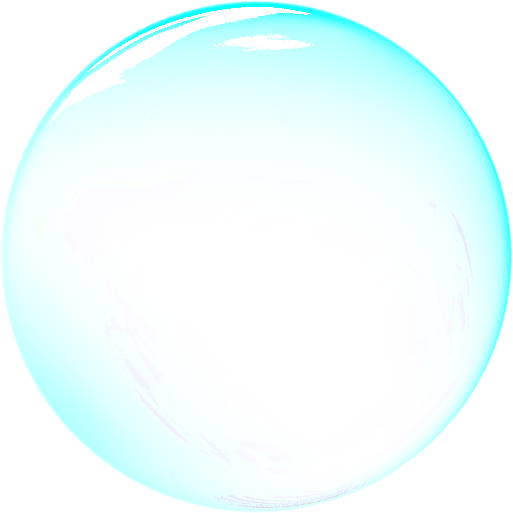
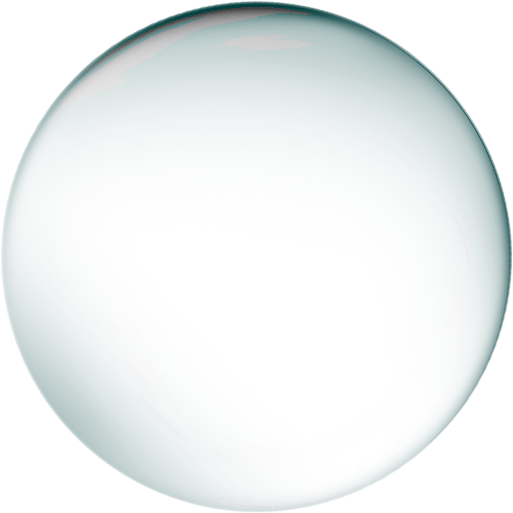
Update main.wxml main.wxss Update menu.js menu.wxss Update pay.wxss Update README.md

Changed region(s): [[0.0, 0.0, 0.9981, 0.9981], [0.655, 0.9045, 0.7797, 0.9669]]

diff --git a/teamwork/client/packageUser/pages/menu/menu.js b/teamwork/client/packageUser/pages/menu/menu.js
@@ -212,7 +212,7 @@ Page({
     })
     wx.request(
       {
-      url:`${apiURL}/food`,
+      url:`${apiURL}/user/food`,
       success: (res) => {
         wx.hideLoading();
         console.log(res.data);

diff --git a/teamwork/client/README.md b/teamwork/client/README.md
@@ -47,3 +47,7 @@
 ---
 ## 2018-6-25 17:54
 美化了主界面的UI
+
+---
+## 2018-6-25 19:43
+继续美化了界面UI，修改了界面配色
